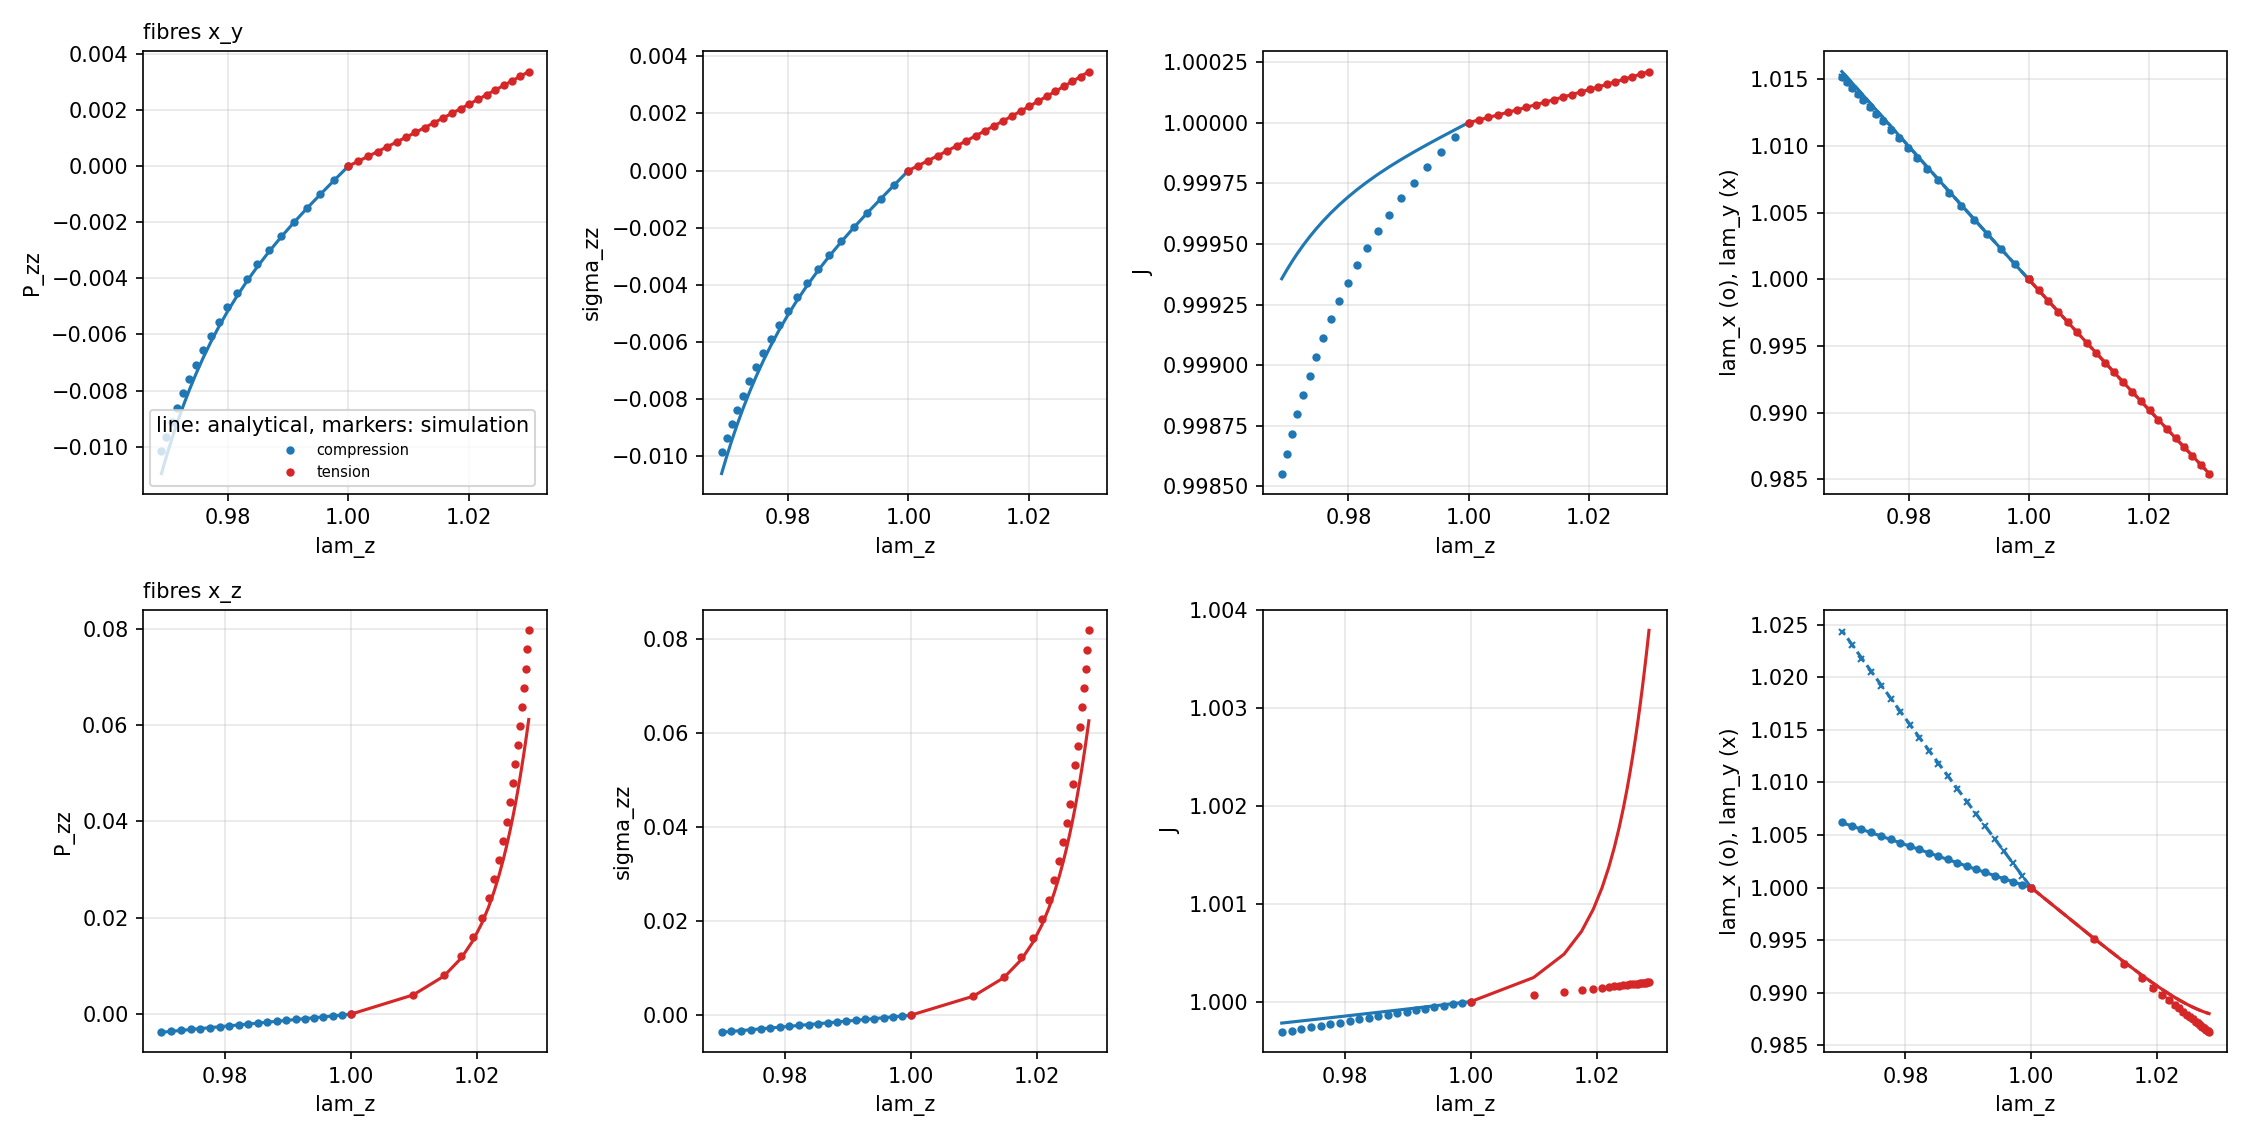
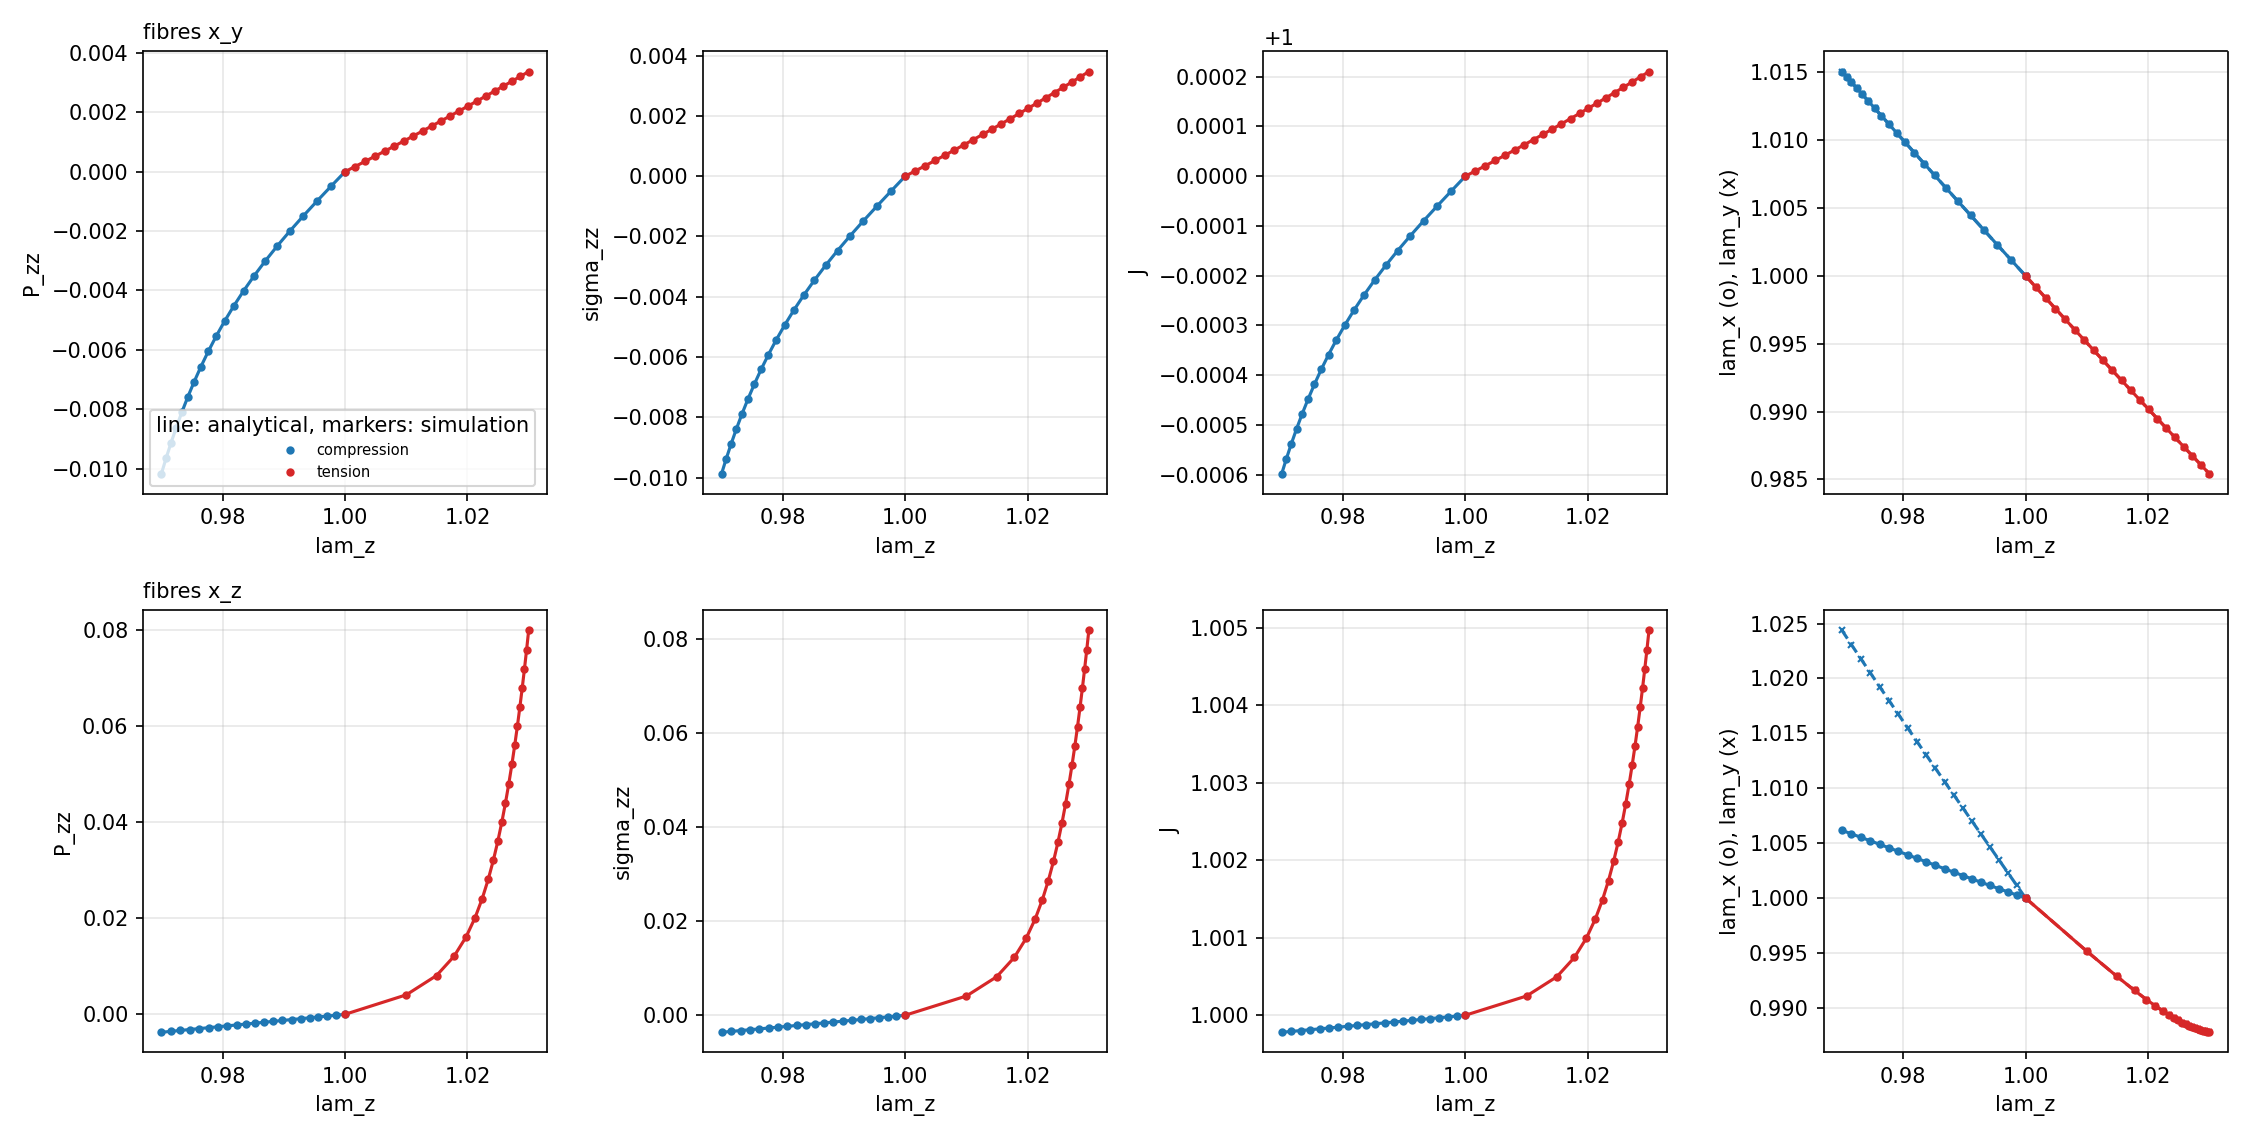
Check axi, 3D for MR, HGO All tests are validated

diff --git a/Simulation_Framework/parameters_class.py b/Simulation_Framework/parameters_class.py
@@ -115,9 +115,9 @@ class HyperelasticMaterial:
 
         if self.sedf_type == "HGO":
             k1, k2, kappa = const(self.k1), const(self.k2), const(self.kappa)
-            C = ufl.dot(mech.F.T, mech.F)
-            I4 = ufl.inner(ufl.outer(mech.a4, mech.a4), C)
-            I6 = ufl.inner(ufl.outer(mech.a6, mech.a6), C)
+            # C = ufl.dot(mech.F.T, mech.F)
+            I4 = ufl.inner(ufl.outer(mech.a4, mech.a4), C_dev)
+            I6 = ufl.inner(ufl.outer(mech.a6, mech.a6), C_dev)
             E4 = kappa * (I1_dev - 3) + (1 - 3 * kappa) * (I4 - 1)
             E6 = kappa * (I1_dev - 3) + (1 - 3 * kappa) * (I6 - 1)
             fibre = lambda E: ufl.conditional(ufl.gt(E, 0.0), ufl.exp(k2 * E**2) - 1, 0.0)
